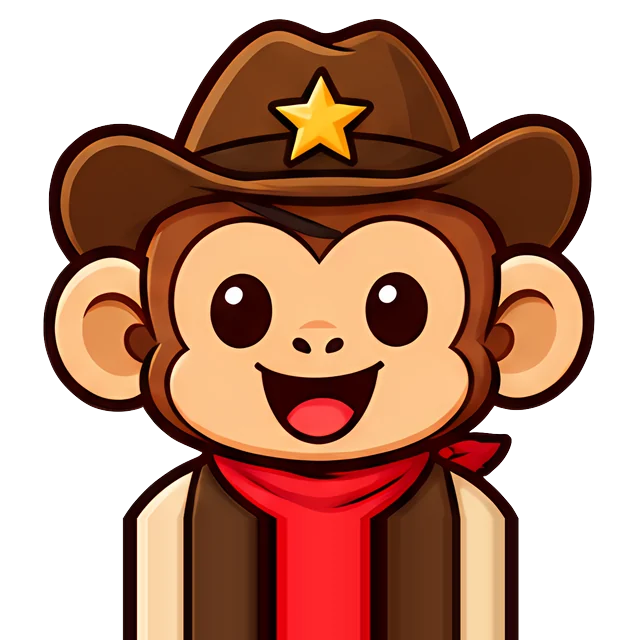
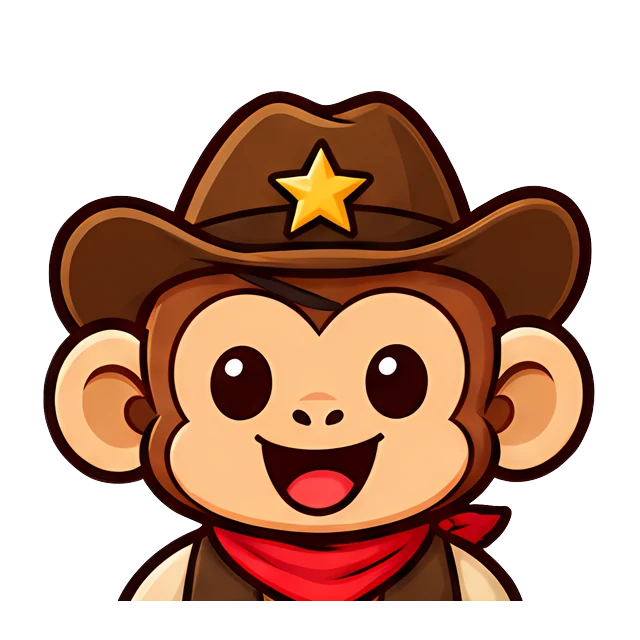
Avatare ohne verlängerte Kleidung: Büste endet natürlich am Kreisrand
Die nach unten verlängerten Oberkörper wirkten wie Blöcke ohne Arme. Jetzt sitzen die Affen etwas tiefer,
sichtbar sind Kopf, Kragen und Schultern.

Claude-Session: https://claude.ai/code/session_01PDAY6jJVKt3LYYTn7dMH6m

diff --git a/sw.js b/sw.js
@@ -1,5 +1,5 @@
 // Offline support: app files (including the fonts) are cached on install.
-const VERSION = "geoaffe-v28";
+const VERSION = "geoaffe-v29";
 const APP = ["./", "data.js", "d3.min.js", "topojson.min.js", "manifest.webmanifest", "icon-192.png", "icon-512.png", "apple-touch-icon.png", "favicon-32.png", "icon-maskable-192.png", "icon-maskable-512.png", "fonts/fredoka-latin.woff2", "fonts/fredoka-latin-ext.woff2", "fonts/nunito-latin.woff2", "fonts/nunito-latin-ext.woff2", "avatars/entdecker.webp", "avatars/pilot.webp", "avatars/astronaut.webp", "avatars/pirat.webp", "avatars/koch.webp", "avatars/koenig.webp", "avatars/taucher.webp", "avatars/cowboy.webp", "avatars/wikinger.webp", "avatars/ninja.webp", "avatars/dj.webp", "avatars/skifahrer.webp", "avatars/kapitaen.webp", "avatars/detektiv.webp", "avatars/party.webp", "avatars/fussballer.webp", "avatars/maler.webp", "avatars/surfer.webp", "avatars/feuerwehr.webp", "avatars/zauberer.webp", "avatars/superheld.webp", "avatars/gamer.webp", "avatars/weihnachtsmann.webp", "avatars/rockstar.webp", "avatars/arzt.webp", "avatars/bergsteiger.webp", "avatars/tennis.webp", "avatars/bauarbeiter.webp", "avatars/gaertner.webp", "avatars/tourist.webp"];
 self.addEventListener("install", e => { e.waitUntil(caches.open(VERSION).then(c => c.addAll(APP)).then(() => self.skipWaiting())); });
 self.addEventListener("activate", e => {
